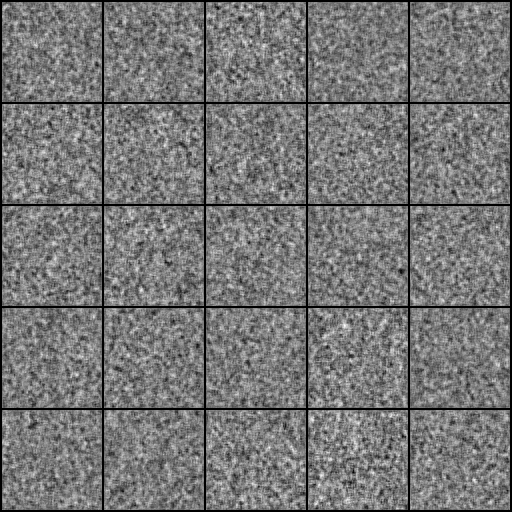
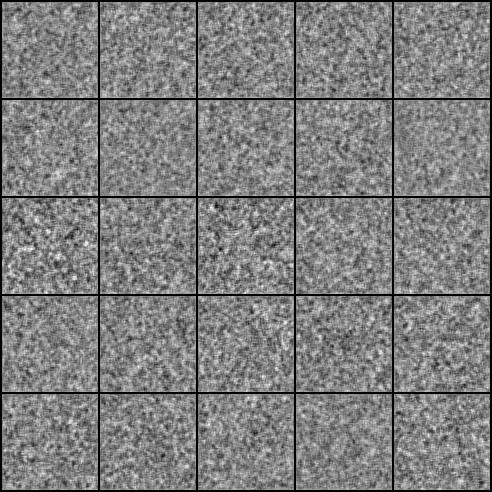
modified for 96x96

diff --git a/dcgan.py b/dcgan.py
@@ -4,6 +4,7 @@ import os
 import numpy as np
 import math
 
+
 import torchvision.transforms as transforms
 from torchvision.utils import save_image
 
@@ -14,19 +15,21 @@ from torch.autograd import Variable
 import torch.nn as nn
 import torch.nn.functional as F
 import torch
-
+    
 # Load the data
-data_path = "GL_small_ensemble.parquet.gzip"
-data = pd.read_parquet(data_path)
+data_path = "GL_ensemble.parquet.gzip"
+image_df = pd.read_parquet(data_path)
+image_names = [f'sim_{i}' for i in range(1,4041)]
 
-# extract data, skipping first two columns.
-sim_data = data.iloc[:, 2:].to_numpy() 
+realizations_resized = np.zeros((4020, 96, 96))
 
-# reshape data into 100x100x100 grid
-realizations = sim_data.reshape(100, 100, 100) 
+for i in range(4020):
+    realization_og = np.array(image_df[image_names[i]].values).reshape(100,100)
+    tmp = realization_og[:96, :96]
+    realizations_resized[i] = tmp
 
 # Normalize the data to the range [-1, 1]
-realizations_normalized = (realizations - realizations.min()) / (realizations.max() - realizations.min()) * 2 - 1
+realizations_normalized = (realizations_resized - realizations_resized.min()) / (realizations_resized.max() - realizations_resized.min()) * 2 - 1
 
 
 os.makedirs("images", exist_ok=True)
@@ -39,7 +42,7 @@ parser.add_argument("--b1", type=float, default=0.5, help="adam: decay of first 
 parser.add_argument("--b2", type=float, default=0.999, help="adam: decay of first order momentum of gradient")
 parser.add_argument("--n_cpu", type=int, default=8, help="number of cpu threads to use during batch generation")
 parser.add_argument("--latent_dim", type=int, default=100, help="dimensionality of the latent space")
-parser.add_argument("--img_size", type=int, default=100, help="size of each image dimension")
+parser.add_argument("--img_size", type=int, default=96, help="size of each image dimension")
 parser.add_argument("--channels", type=int, default=1, help="number of image channels")
 parser.add_argument("--sample_interval", type=int, default=400, help="interval between image sampling")
 opt = parser.parse_args()
@@ -102,7 +105,10 @@ class Discriminator(nn.Module):
             *discriminator_block(64, 128),
         )
 
-        self.adv_layer = nn.Sequential(nn.Linear(6272, 1), nn.Sigmoid())
+        ds_size = opt.img_size // 2 ** 4
+        self.adv_layer = nn.Sequential(nn.Linear(128 * ds_size ** 2, 1), nn.Sigmoid())
+        # self.adv_layer = nn.Sequential(nn.Linear(6272, 1), nn.Sigmoid())
+
 
 
 
